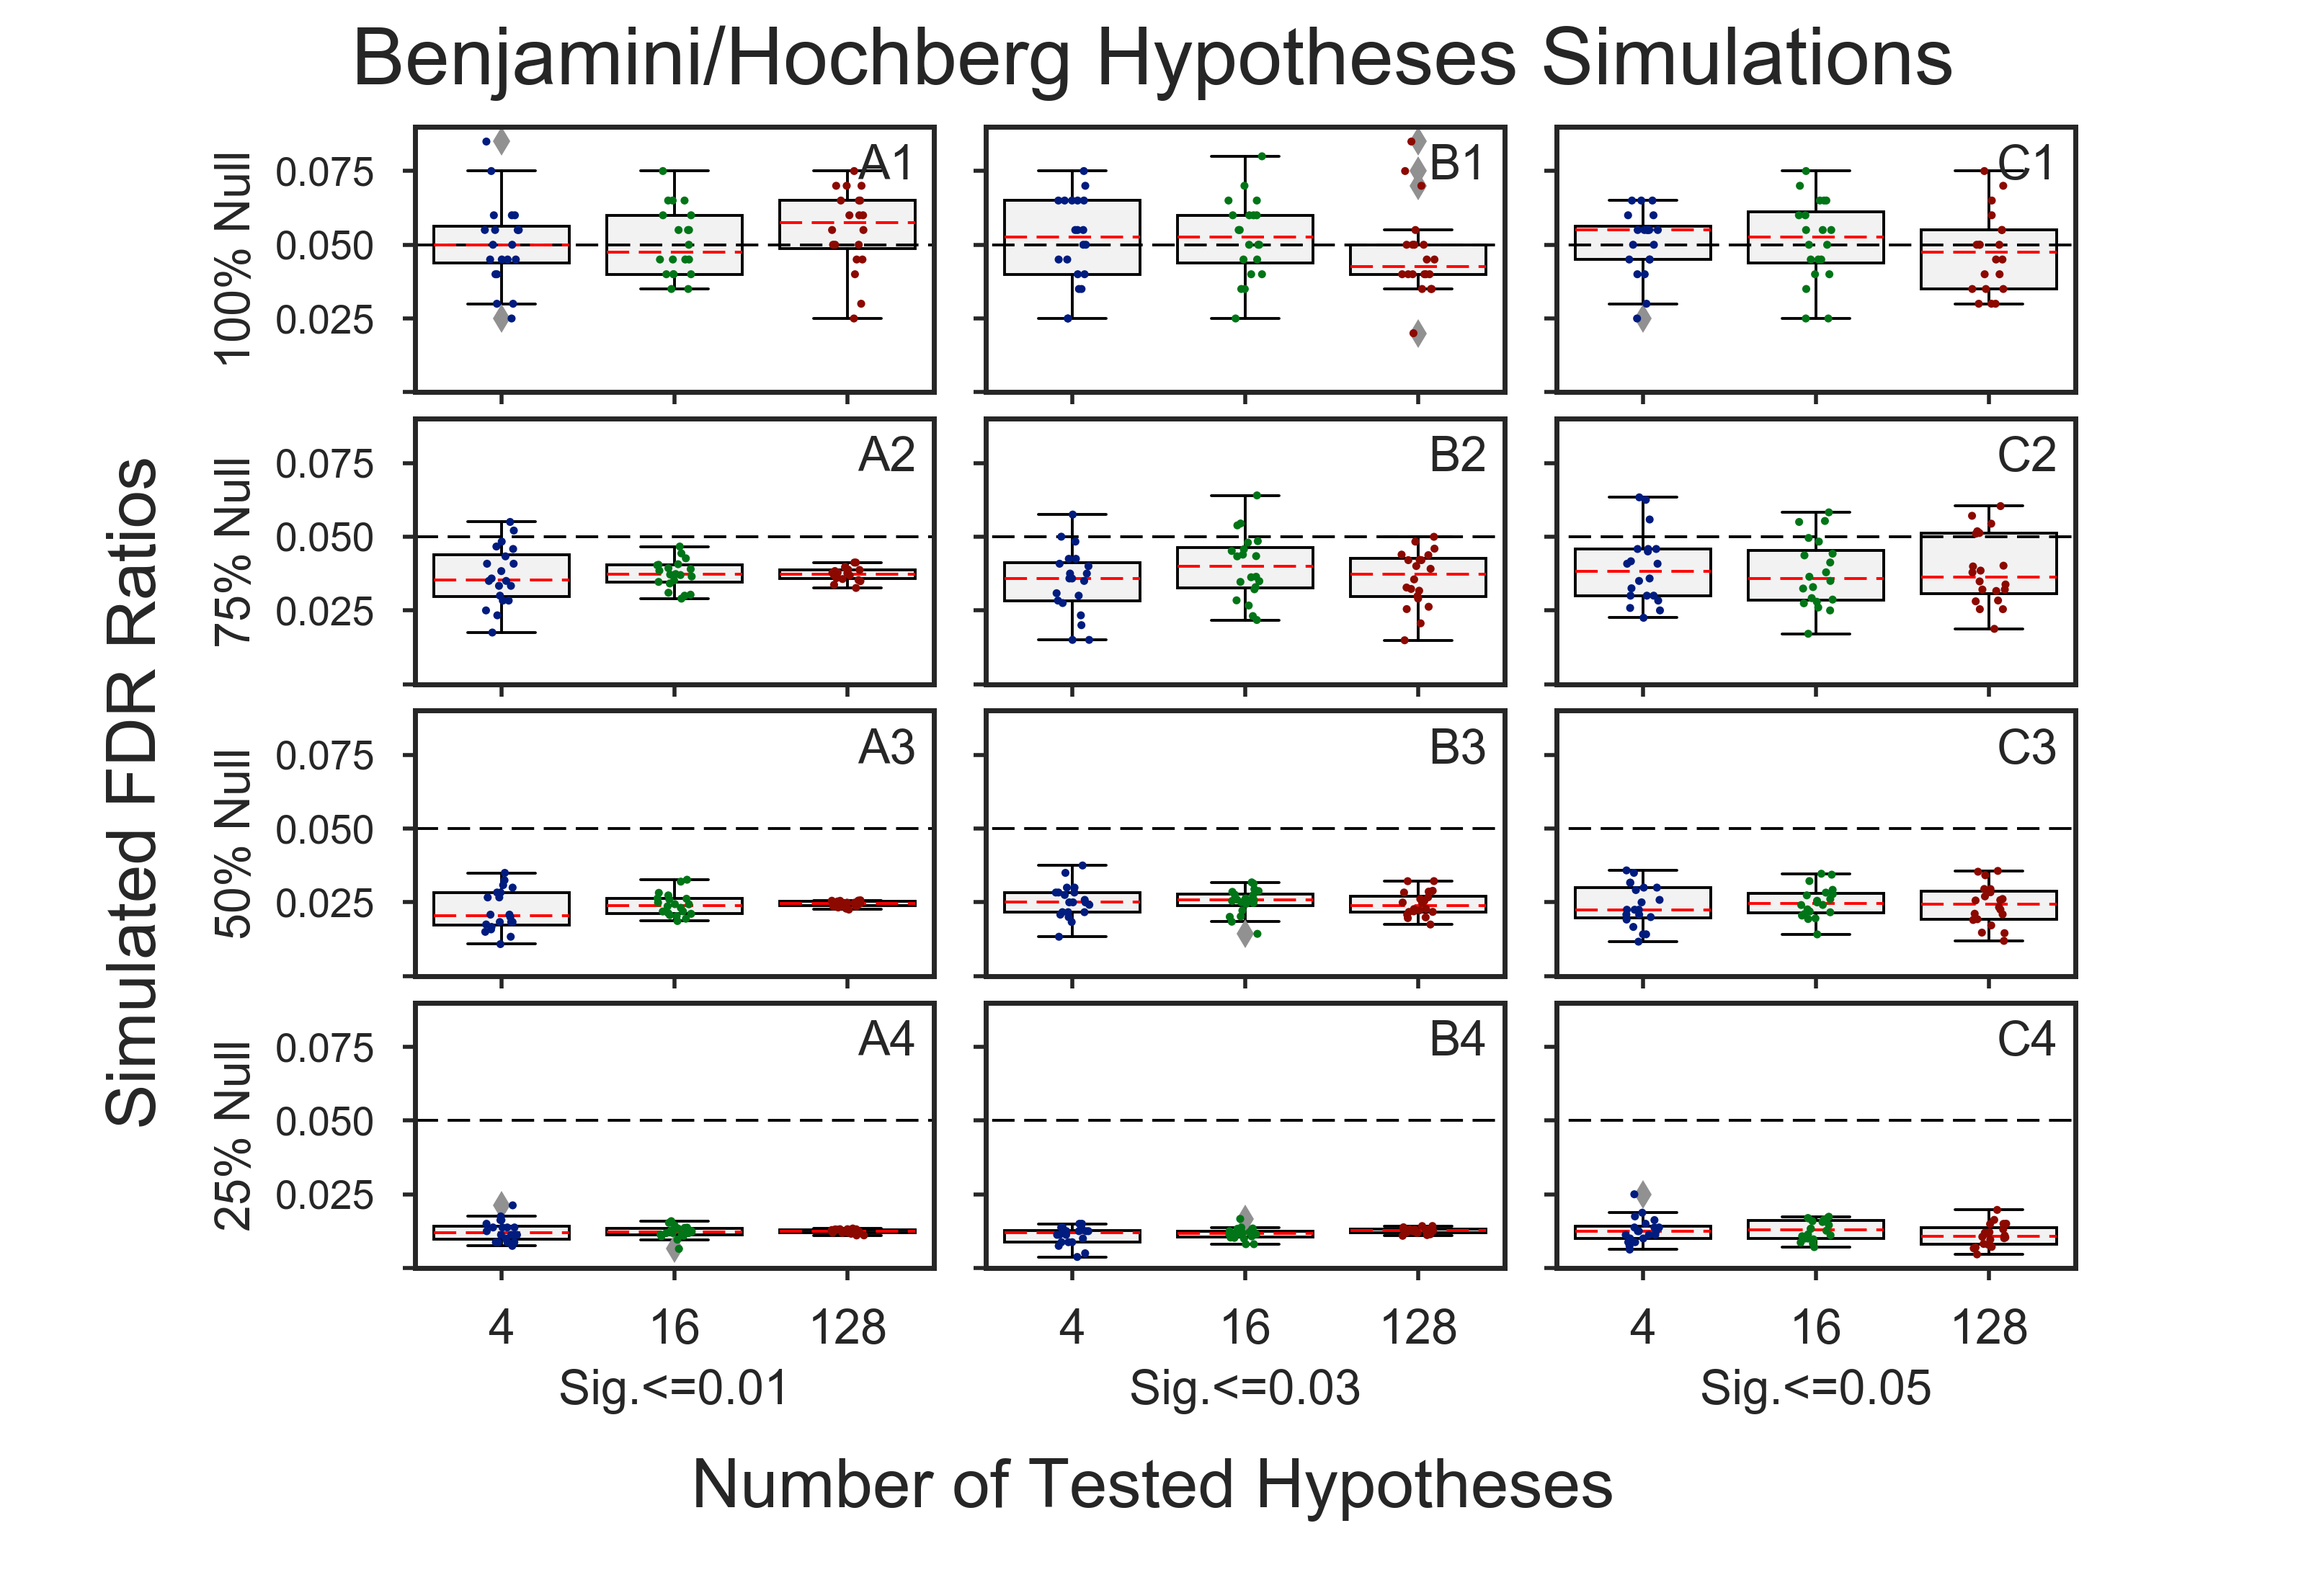
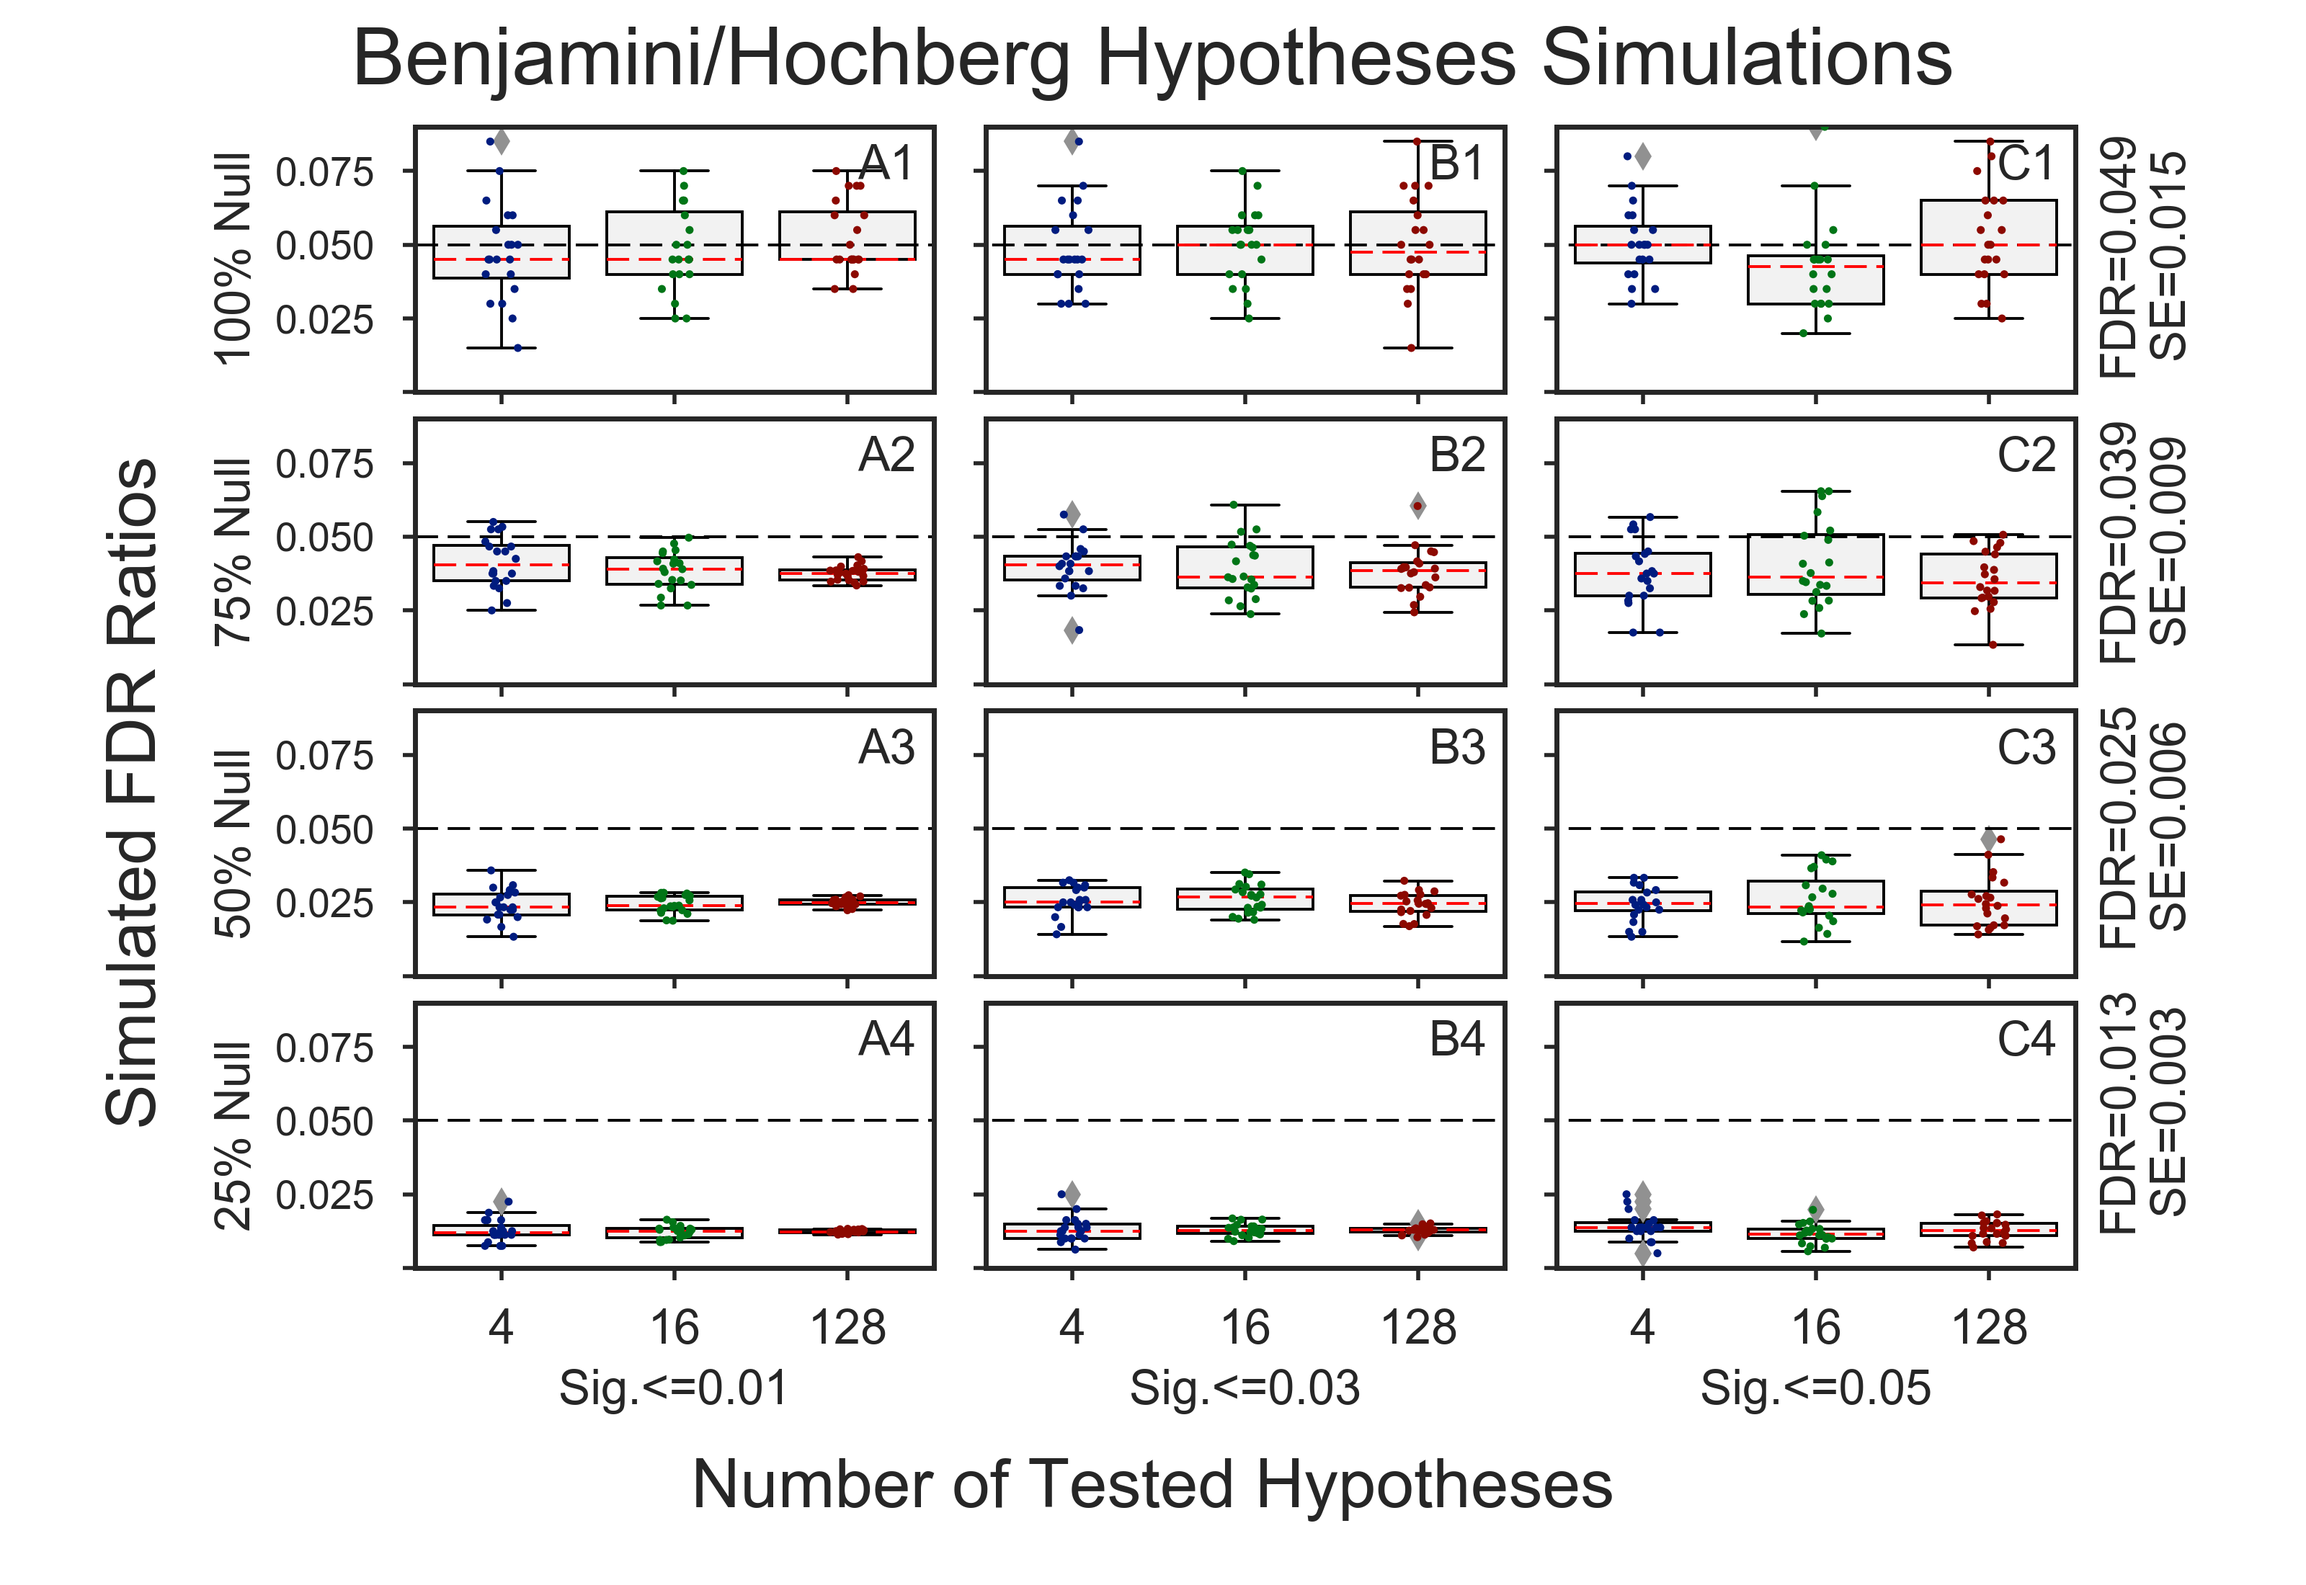
Added FDR mean and SE for each row in the hypothes simulation

diff --git a/src/pkggosim/hypotheses/plot_results.py b/src/pkggosim/hypotheses/plot_results.py
@@ -5,6 +5,8 @@ __author__ = "DV Klopfenstein"
 
 import os
 import sys
+import collections as cx
+import numpy as np
 import seaborn as sns
 import matplotlib.pyplot as plt
 import pandas as pd
@@ -135,6 +137,8 @@ def plt_box_tiled(fout_img, key2exps, attrname, **args_kws):
         _plt_tile(idx, num_rows, num_cols, tile_items, objplt)
     tiled_xyticklabels_off(axes_2d, num_cols)
     xysz = kws['txtsz_xy']
+    if attrname == "fdr_actual":
+        _add_means_txt(fig, key2exps, objplt, .92-.2, .2+.1) # top-bottom, bottom+hspace
     fig.text(0.5, 0.96, kws['title'], size=kws['txtsz_title'], ha='center', va='center')
     fig.text(0.5, 0.06, kws['xlabel'], size=xysz, ha='center', va='center')
     fig.text(0.06, 0.5, kws['ylabel'], size=xysz, ha='center', va='center', rotation='vertical')
@@ -142,6 +146,30 @@ def plt_box_tiled(fout_img, key2exps, attrname, **args_kws):
     sys.stdout.write("  WROTE: {IMG}\n".format(IMG=fout_img))
     if kws.get('show', False):
         plt.show()
+
+def _add_means_txt(fig, key2exps, objplt, y_m, y_b):
+    """Add means per row to plot."""
+    nullperc_meantxt = sorted(_get_row_means(key2exps, objplt).items())
+    num_rows = len(nullperc_meantxt)
+    for row, (_, meantxt) in enumerate(nullperc_meantxt):
+        yval = y_m*row/num_rows + y_b
+        fig.text(0.93, yval, meantxt, ha='center', va='center', rotation='vertical')
+
+def _get_row_means(key2exps, objplt):
+    """Get the mean and SE for each row."""
+    nullperc2means = cx.defaultdict(list)
+    for (nullperc, _), expsets in key2exps.items():
+        for expset in expsets:
+            means = expset.get_means(objplt.attrname)
+            print expset, len(means)
+            nullperc2means[nullperc].extend(means)
+    nullperc2meantxt = {}
+    for nullperc, means in nullperc2means.items():
+        mean = np.mean(means)
+        stderr = np.std(means)
+        txt = "{NAME}={MEAN:5.3f}\nSE={SE:5.3f}".format(NAME=objplt.grpname, MEAN=mean, SE=stderr)
+        nullperc2meantxt[nullperc] = txt
+    return nullperc2meantxt
 
 def _plt_tile(idx, num_rows, num_cols, tile_items, objplt):
     """Plot one tile of a multi-tiled plot."""
@@ -165,4 +193,4 @@ def _plt_tile(idx, num_rows, num_cols, tile_items, objplt):
     for ntval in objplt.get_str_mean(exps):
         axes.text(ntval.x, ntval.y, ntval.valstr, ha='center', va='bottom')
 
-# Copyright (C) 2016-2017, DV Klopfenstein, Haibao Tang. All rights reserved.
+# Copyright (C) 2016-2017, DV Klopfenstein, Haibao Tang. All rights reserved.154

diff --git a/src/bin/plt_benjamini_hochberg.py b/src/bin/plt_benjamini_hochberg.py
@@ -31,8 +31,8 @@ if __name__:
     PARAMS = [
         # NTOBJ._make([500, 2500, {'fdr_actual':0.70, 'sensitivity':0.40}]),
         # NTOBJ._make([100, 1000, {'fdr_actual':1.20, 'sensitivity':0.65}]), # TBD Re-run
-        # NTOBJ._make([ 20,   200, {'fdr_actual':2.00, 'sensitivity':2.00}]), # 00:01:00
-        NTOBJ._make([ 10,    10, {'fdr_actual':2.00, 'sensitivity':2.00}]), # 00:00:02
+        NTOBJ._make([ 20,   200, {'fdr_actual':2.00, 'sensitivity':2.00}]), # 00:01:00
+        # NTOBJ._make([ 10,    10, {'fdr_actual':2.00, 'sensitivity':2.00}]), # 00:00:02
     ]
     for ntd in PARAMS:
         main(SEED, ntd.num_experiments, ntd.num_sims, ntd.dotsize)
